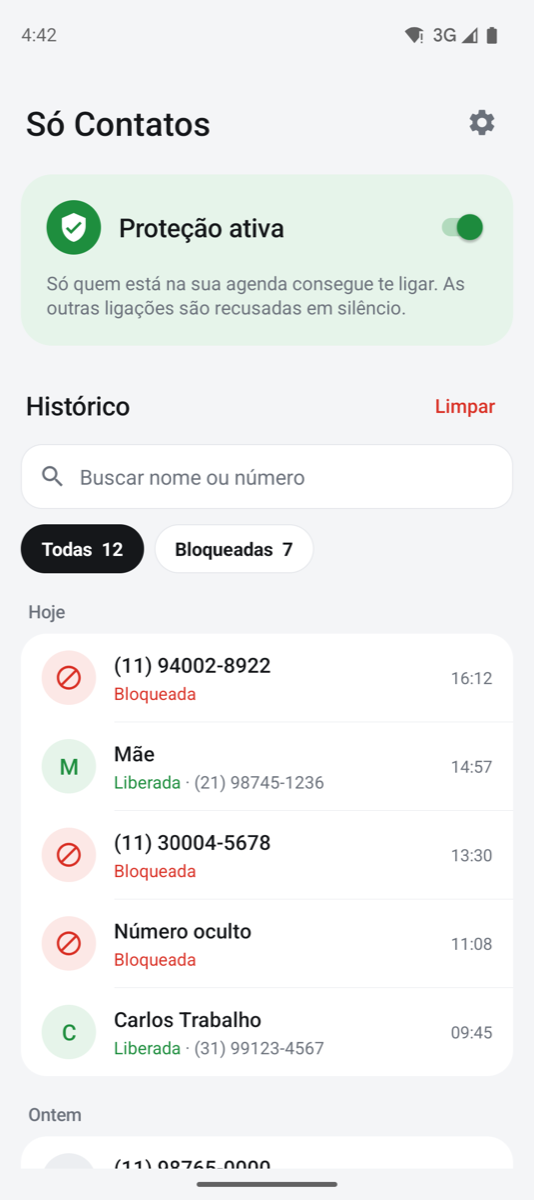
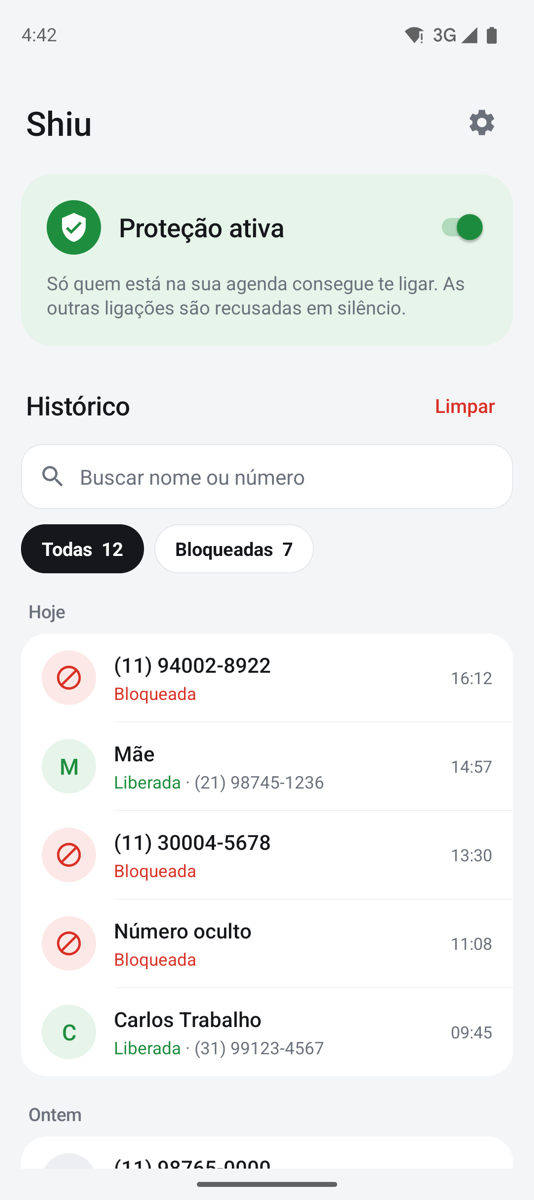
Site com o novo nome Shiu

diff --git a/index.html b/index.html
@@ -3,15 +3,15 @@
 <head>
 <meta charset="utf-8">
 <meta name="viewport" content="width=device-width, initial-scale=1">
-<title>Só Contatos: bloqueie ligações de números desconhecidos no Android</title>
+<title>Shiu: bloqueie ligações de números desconhecidos no Android</title>
 <meta name="description" content="App para Android que bloqueia em silêncio ligações de quem não está na sua agenda: telemarketing, golpes e spam. Sem anúncios, sem internet, pague uma vez.">
 <link rel="canonical" href="https://andreocunha.github.io/so-contatos/">
 <link rel="icon" href="img/favicon.png">
-<meta name="theme-color" content="#1E8E3E">
+<meta name="theme-color" content="#5B33D6">
 <meta name="google-site-verification" content="m3S4_LCfIVBKi5dBGdxOmYPgJ71Y9Tx0yVhnKbIMxLs">
 <meta property="og:type" content="website">
 <meta property="og:locale" content="pt_BR">
-<meta property="og:title" content="Só Contatos: só quem está na sua agenda consegue te ligar">
+<meta property="og:title" content="Shiu: só quem está na sua agenda consegue te ligar">
 <meta property="og:description" content="Bloqueia em silêncio ligações de números desconhecidos, telemarketing e golpes. App para Android.">
 <meta property="og:url" content="https://andreocunha.github.io/so-contatos/">
 <meta property="og:image" content="https://andreocunha.github.io/so-contatos/img/destaque.png">
@@ -20,8 +20,8 @@
 {
   "@context": "https://schema.org",
   "@type": "SoftwareApplication",
-  "name": "Só Contatos",
-  "alternateName": "Só Contatos: Bloqueia Ligações",
+  "name": "Shiu",
+  "alternateName": "Shiu: Bloqueador de Ligações",
   "description": "Bloqueia em silêncio as ligações de quem não está na sua agenda.",
   "applicationCategory": "CommunicationApplication",
   "operatingSystem": "Android 10 ou mais recente",
@@ -38,13 +38,13 @@
   "@type": "FAQPage",
   "mainEntity": [
     {"@type": "Question", "name": "Como bloquear ligações de números desconhecidos no Android?",
-     "acceptedAnswer": {"@type": "Answer", "text": "Instale o Só Contatos, toque em Configurar agora e escolha o app como app de identificação de chamadas e spam. A partir daí, só os números salvos na sua agenda fazem o celular tocar."}},
+     "acceptedAnswer": {"@type": "Answer", "text": "Instale o Shiu, toque em Configurar agora e escolha o app como app de identificação de chamadas e spam. A partir daí, só os números salvos na sua agenda fazem o celular tocar."}},
     {"@type": "Question", "name": "A pessoa bloqueada percebe que foi bloqueada?",
      "acceptedAnswer": {"@type": "Answer", "text": "Não. A ligação é recusada como se você estivesse ocupado ou sem sinal. Seu celular não toca, não vibra e não mostra notificação."}},
     {"@type": "Question", "name": "E se for uma emergência de um número que não está na agenda?",
      "acceptedAnswer": {"@type": "Answer", "text": "Ative a opção Deixar passar quem insiste: se o mesmo número ligar 2 vezes em 3 minutos, a segunda ligação toca normalmente."}},
     {"@type": "Question", "name": "O app envia meus contatos para algum lugar?",
-     "acceptedAnswer": {"@type": "Answer", "text": "Não. O Só Contatos não tem acesso à internet. A agenda é consultada só no próprio celular e nada é enviado."}},
+     "acceptedAnswer": {"@type": "Answer", "text": "Não. O Shiu não tem acesso à internet. A agenda é consultada só no próprio celular e nada é enviado."}},
     {"@type": "Question", "name": "Funciona em quais celulares?",
      "acceptedAnswer": {"@type": "Answer", "text": "Em qualquer celular Android 10 ou mais recente, como Samsung, Motorola, Xiaomi e outros."}},
     {"@type": "Question", "name": "É assinatura?",
@@ -53,20 +53,20 @@
 }
 </script>
 <style>
-:root{--bg:#F4F5F7;--surface:#fff;--text:#15171A;--text2:#5B616B;--line:#E5E7EB;--green:#1E8E3E;--green-soft:#E6F4EA;--red:#D93025}
-@media (prefers-color-scheme:dark){:root{--bg:#0E1013;--surface:#1A1D21;--text:#ECEEF1;--text2:#9AA0A8;--line:#2A2E34;--green:#5BC27E;--green-soft:#18291E;--red:#F28B82}}
+:root{--bg:#F4F5F7;--surface:#fff;--text:#15171A;--text2:#5B616B;--line:#E5E7EB;--green:#5B33D6;--green-soft:#EFE9FF;--red:#D93025}
+@media (prefers-color-scheme:dark){:root{--bg:#0E1013;--surface:#1A1D21;--text:#ECEEF1;--text2:#9AA0A8;--line:#2A2E34;--green:#B49BFF;--green-soft:#241B3D;--red:#F28B82}}
 *{box-sizing:border-box}
 body{margin:0;background:var(--bg);color:var(--text);font:17px/1.6 system-ui,-apple-system,"Segoe UI",Roboto,sans-serif}
 a{color:var(--green)}
 .wrap{max-width:960px;margin:0 auto;padding:0 20px}
-header.hero{background:linear-gradient(135deg,#27A653,#136B2E);color:#fff;padding:56px 0 64px}
+header.hero{background:linear-gradient(135deg,#8A5CFF,#4A22B5);color:#fff;padding:56px 0 64px}
 .hero .wrap{display:flex;gap:40px;align-items:center;flex-wrap:wrap}
 .hero .txt{flex:1 1 380px}
 .brand{display:flex;align-items:center;gap:12px;font-weight:700;font-size:20px;margin-bottom:28px}
 .brand img{width:44px;height:44px;border-radius:12px}
 h1{font-size:clamp(32px,6vw,48px);line-height:1.12;margin:0 0 16px;letter-spacing:-.02em}
 .hero p{font-size:19px;opacity:.95;margin:0 0 28px;max-width:34em}
-.btn{display:inline-flex;align-items:center;gap:10px;background:#fff;color:#136B2E;font-weight:700;text-decoration:none;padding:14px 24px;border-radius:14px;font-size:17px}
+.btn{display:inline-flex;align-items:center;gap:10px;background:#fff;color:#4A22B5;font-weight:700;text-decoration:none;padding:14px 24px;border-radius:14px;font-size:17px}
 .btn small{font-weight:500;opacity:.75}
 .note{font-size:14px;opacity:.85;margin-top:12px}
 .shots{flex:0 1 300px;display:flex;justify-content:center}
@@ -91,13 +91,13 @@ footer .wrap{display:flex;gap:20px;flex-wrap:wrap;justify-content:space-between}
 <header class="hero">
   <div class="wrap">
     <div class="txt">
-      <div class="brand"><img src="img/icone.png" alt="" width="44" height="44">Só Contatos</div>
+      <div class="brand"><img src="img/icone.png" alt="" width="44" height="44">Shiu</div>
       <h1>Bloqueie ligações de números desconhecidos</h1>
       <p>Telemarketing, golpes e spam param de tocar. Só quem está na sua agenda consegue te ligar. As outras ligações são recusadas em silêncio.</p>
       <a class="btn" href="https://play.google.com/store/apps/details?id=com.andre.bloqueio">Baixar na Google Play <small>R$ 4,99</small></a>
       <div class="note">Pague uma vez. Sem anúncios, sem assinatura. Android 10 ou mais recente.</div>
     </div>
-    <div class="shots"><img src="img/tela.png" alt="Tela do app Só Contatos mostrando a proteção ativa e o histórico de ligações bloqueadas" width="280" height="630"></div>
+    <div class="shots"><img src="img/tela.png" alt="Tela do app Shiu mostrando a proteção ativa e o histórico de ligações bloqueadas" width="280" height="630"></div>
   </div>
 </header>
 
@@ -118,9 +118,9 @@ footer .wrap{display:flex;gap:20px;flex-wrap:wrap;justify-content:space-between}
   <div class="wrap">
     <h2>Como bloquear ligações de desconhecidos no Android</h2>
     <ol class="steps">
-      <li>Baixe o Só Contatos na Google Play.</li>
+      <li>Baixe o Shiu na Google Play.</li>
       <li>Abra o app e toque em <strong>Configurar agora</strong>.</li>
-      <li>Permita o acesso aos contatos e escolha o Só Contatos como app de identificação de chamadas e spam.</li>
+      <li>Permita o acesso aos contatos e escolha o Shiu como app de identificação de chamadas e spam.</li>
       <li>Pronto: a partir de agora só os números salvos na agenda fazem o celular tocar.</li>
     </ol>
   </div>
@@ -132,7 +132,7 @@ footer .wrap{display:flex;gap:20px;flex-wrap:wrap;justify-content:space-between}
     <details><summary>A pessoa bloqueada percebe que foi bloqueada?</summary><p>Não. A ligação é recusada como se você estivesse ocupado ou sem sinal. Seu celular não toca, não vibra e não mostra notificação.</p></details>
     <details><summary>E se for uma emergência de um número que não está na agenda?</summary><p>Ative a opção "Deixar passar quem insiste": se o mesmo número ligar 2 vezes em 3 minutos, a segunda ligação toca normalmente.</p></details>
     <details><summary>Dá para bloquear número oculto ou privado?</summary><p>Sim. Essa opção já vem ligada e pode ser desativada nos Ajustes do app.</p></details>
-    <details><summary>O app envia meus contatos para algum lugar?</summary><p>Não. O Só Contatos não tem acesso à internet. A agenda é consultada só no próprio celular e nada é enviado. Veja a <a href="privacidade.html">política de privacidade</a>.</p></details>
+    <details><summary>O app envia meus contatos para algum lugar?</summary><p>Não. O Shiu não tem acesso à internet. A agenda é consultada só no próprio celular e nada é enviado. Veja a <a href="privacidade.html">política de privacidade</a>.</p></details>
     <details><summary>Funciona em quais celulares?</summary><p>Em qualquer celular Android 10 ou mais recente, como Samsung, Motorola, Xiaomi e outros.</p></details>
     <details><summary>É assinatura?</summary><p>Não. Você paga uma vez na Google Play e usa para sempre, sem anúncios.</p></details>
   </div>
@@ -141,7 +141,7 @@ footer .wrap{display:flex;gap:20px;flex-wrap:wrap;justify-content:space-between}
 
 <footer>
   <div class="wrap">
-    <span>© 2026 Só Contatos</span>
+    <span>© 2026 Shiu</span>
     <a href="privacidade.html">Política de privacidade</a>
   </div>
 </footer>

diff --git a/privacidade.html b/privacidade.html
@@ -3,13 +3,13 @@
 <head>
 <meta charset="utf-8">
 <meta name="viewport" content="width=device-width, initial-scale=1">
-<title>Política de Privacidade | Só Contatos</title>
-<meta name="description" content="Política de privacidade do Só Contatos: o app não tem acesso à internet e seus contatos nunca saem do celular.">
+<title>Política de Privacidade | Shiu</title>
+<meta name="description" content="Política de privacidade do Shiu: o app não tem acesso à internet e seus contatos nunca saem do celular.">
 <link rel="canonical" href="https://andreocunha.github.io/so-contatos/privacidade.html">
 <link rel="icon" href="img/favicon.png">
 <style>
-:root{--bg:#F4F5F7;--surface:#fff;--text:#15171A;--text2:#5B616B;--line:#E5E7EB;--green:#1E8E3E}
-@media (prefers-color-scheme:dark){:root{--bg:#0E1013;--surface:#1A1D21;--text:#ECEEF1;--text2:#9AA0A8;--line:#2A2E34;--green:#5BC27E}}
+:root{--bg:#F4F5F7;--surface:#fff;--text:#15171A;--text2:#5B616B;--line:#E5E7EB;--green:#5B33D6}
+@media (prefers-color-scheme:dark){:root{--bg:#0E1013;--surface:#1A1D21;--text:#ECEEF1;--text2:#9AA0A8;--line:#2A2E34;--green:#B49BFF}}
 body{margin:0;background:var(--bg);color:var(--text);font:17px/1.65 system-ui,-apple-system,"Segoe UI",Roboto,sans-serif}
 main{max-width:720px;margin:0 auto;padding:32px 20px 56px}
 a{color:var(--green)}
@@ -20,10 +20,10 @@ p,li{color:var(--text2)} strong{color:var(--text)}
 </style>
 </head>
 <body><main>
-<a class="back" href="./">← Só Contatos</a>
-<h1>Política de Privacidade — Só Contatos</h1>
-<p><em>Última atualização: 10 de novembro de 2026</em></p>
-<p>O <strong>Só Contatos</strong> bloqueia ligações de números que não estão na sua agenda. Ele foi feito para funcionar inteiramente no seu celular.</p>
+<a class="back" href="./">← Shiu</a>
+<h1>Política de Privacidade — Shiu</h1>
+<p><em>Última atualização: 16 de novembro de 2026</em></p>
+<p>O <strong>Shiu</strong> bloqueia ligações de números que não estão na sua agenda. Ele foi feito para funcionar inteiramente no seu celular.</p>
 <h2>O que o app acessa</h2>
 <ul>
 <li><strong>Seus contatos:</strong> o app consulta a agenda do aparelho apenas para saber se o número que está ligando pertence a um contato seu. A agenda não é copiada, guardada nem enviada para lugar nenhum.</li>
@@ -42,5 +42,5 @@ p,li{color:var(--text2)} strong{color:var(--text)}
 <h2>Mudanças</h2>
 <p>Se esta política mudar, a nova versão será publicada neste mesmo endereço.</p>
 <h2>Contato</h2>
-<p>Dúvidas ou pedidos sobre privacidade: use o e-mail de contato do desenvolvedor que aparece na página do Só Contatos na Google Play.</p>
+<p>Dúvidas ou pedidos sobre privacidade: use o e-mail de contato do desenvolvedor que aparece na página do Shiu na Google Play.</p>
 </main></body></html>
